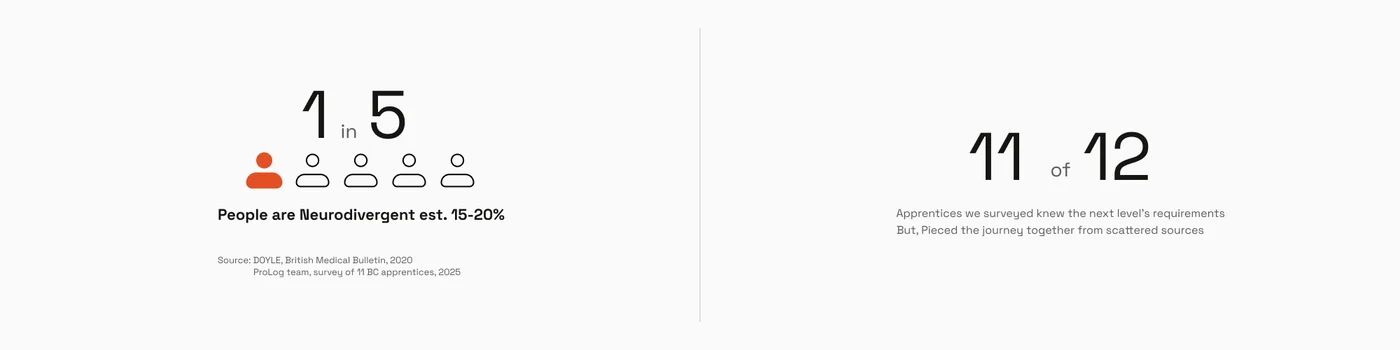
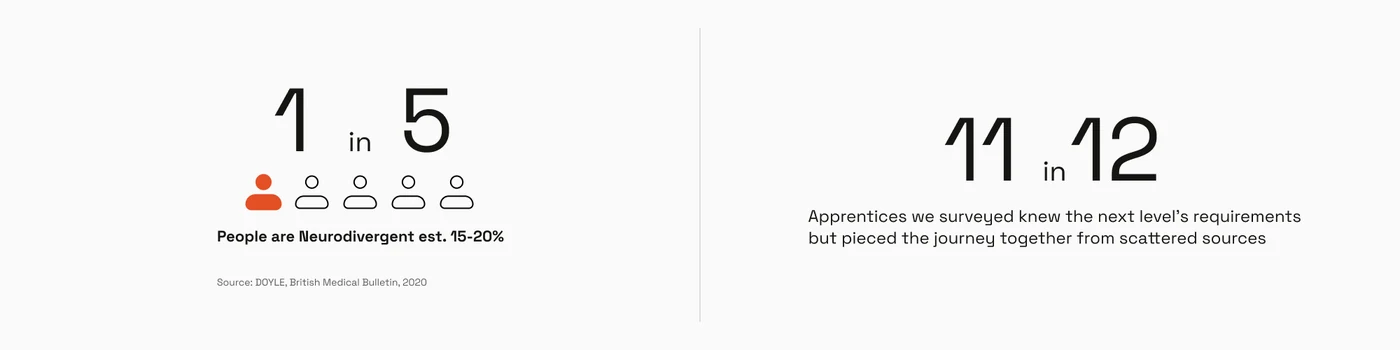
assets: refresh five research figures; participants now counts 12
Regenerate the timeline, cert-stats, audience, participants and
discrepancy webps from the corrected exports (participants leads with 12
and lists all seven trades), and bring the audience/participants alt
text in line with what the graphics now show.

Claude-Session: https://claude.ai/code/session_01Sd3ocUiFGXccpfGr2QGCEH

diff --git a/site/src/components/ProLogContextFigures.jsx b/site/src/components/ProLogContextFigures.jsx
@@ -59,7 +59,7 @@ export function AudienceFigure() {
   return (
     <img
       src={audienceImg}
-      alt="Who we designed for: one in five Canadians is neurodivergent, and a majority of the BCIT apprentices we surveyed identified as such"
+      alt="Who we designed for: an estimated 1 in 5 people are neurodivergent, and 11 of the 12 apprentices we surveyed knew the next level's requirements but pieced the journey together from scattered sources"
       loading="lazy"
     />
   );
@@ -89,7 +89,7 @@ export function ParticipantsFigure() {
   return (
     <img
       src={participantsImg}
-      alt="Who we heard from: 11 apprentices surveyed and interviewed across BC - electrical, plumbing, HVAC, ironworking and landscaping trades, first-year to journeyperson, union and non-union, 8 of 11 phone-first"
+      alt="Who we heard from: 12 apprentices surveyed and interviewed across BC - electrical, plumbing, HVAC, power engineering, ironworking, landscaping and welding trades, first-year to journeyperson, union and non-union, 9 of 12 mobile-first"
       loading="lazy"
     />
   );
